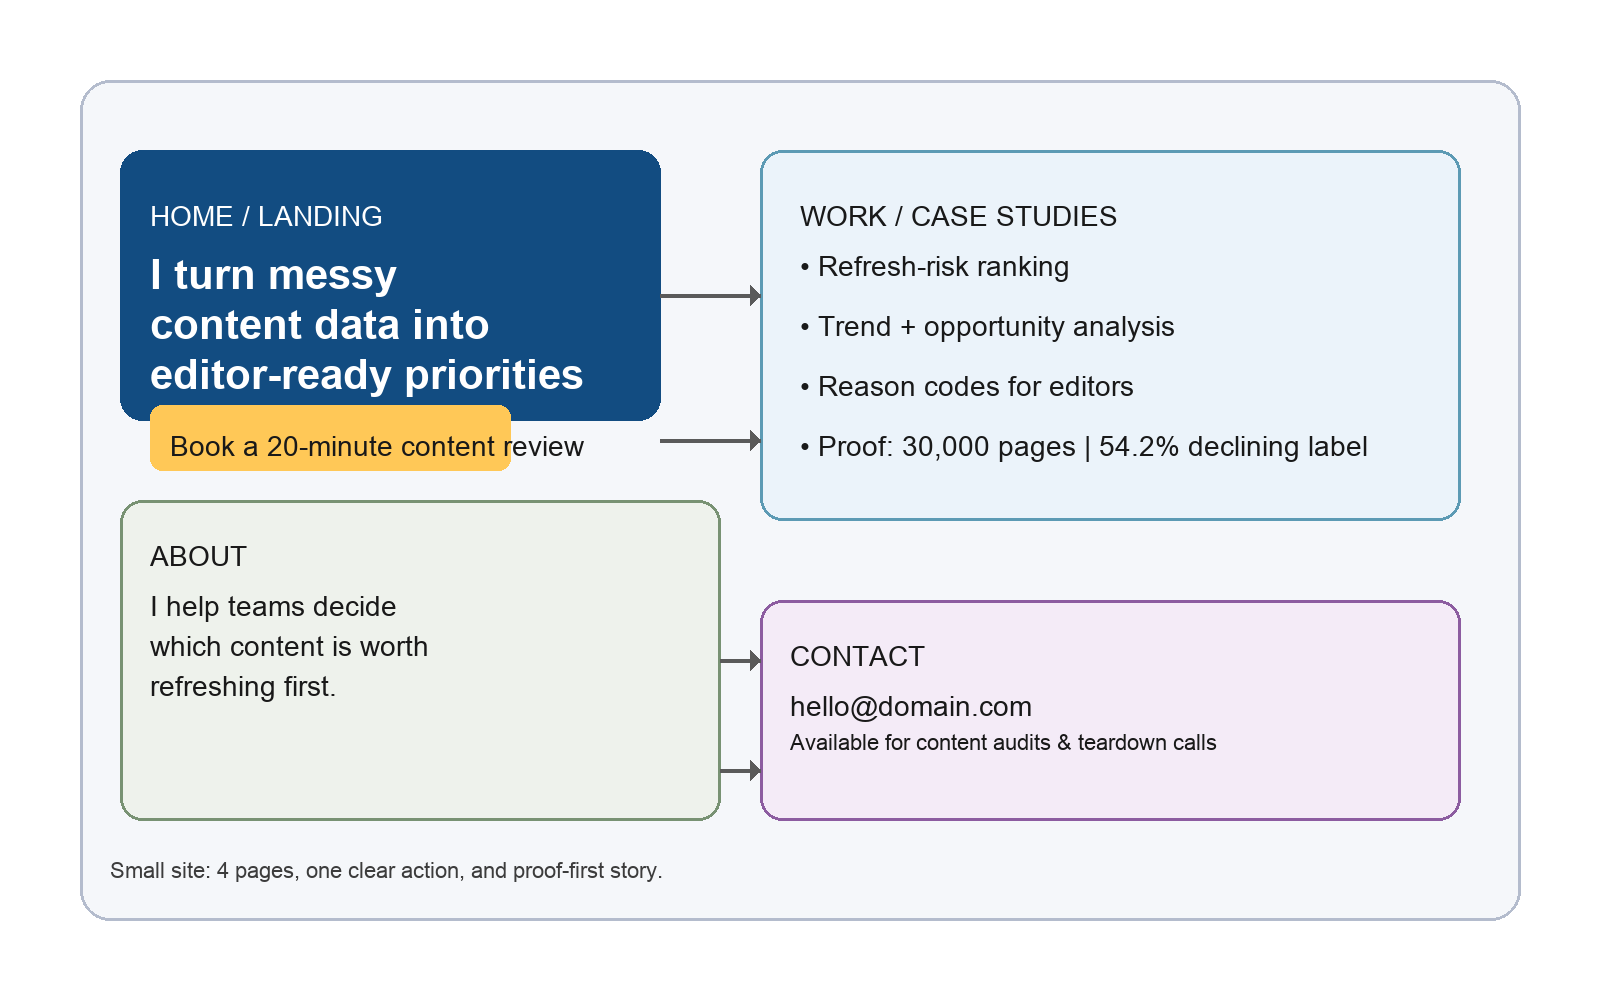
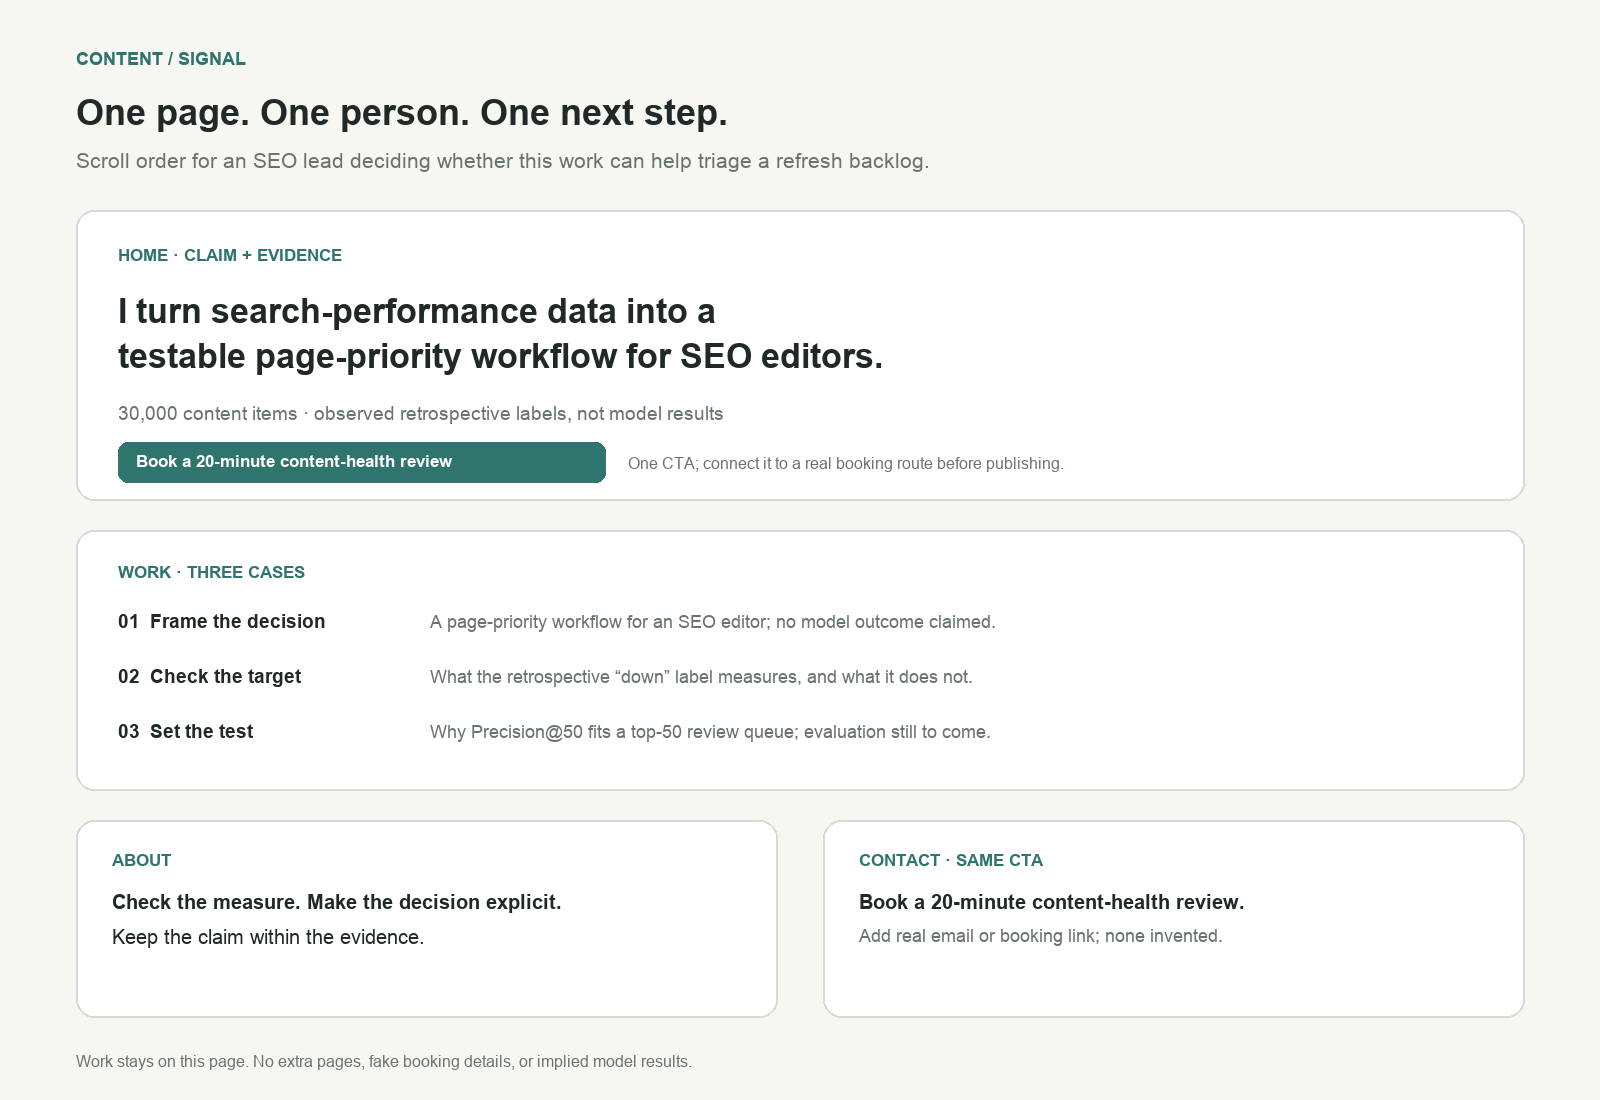
Consistency, Not Talent (and Frame, Not Upstage)

diff --git a/work/portfolio/README.md b/work/portfolio/README.md
@@ -1,12 +1,22 @@
 # Portfolio toolkit package
 
-This folder contains the local mock deliverables for the one-person portfolio task.
+This folder contains local portfolio copy, planning, and visual assets.
 
 Files:
 - sitemap_sketch.png
 - claude_project_mockup.png
 - pressure_test_mockup.png
 - case_studies.md
+- visual_identity.md
+- assets/identity-board.png
+- assets/image_curation_board.png
+- assets/decline-label-distribution.png
+- assets/decision-path.svg
+- assets/option_a_signal_to_queue.svg
+- assets/option_b_magnifier.svg
+- assets/option_c_page_cards.svg
+- assets/logo.svg
+- assets/favicon.svg
 - prompt_ladder.md
 - prompt_iteration_log.md
 - toolkit_checklist.md
@@ -19,5 +29,6 @@ How to use:
 2. Copy the Claude custom instructions, including the voice card, into a real Claude project in the browser.
 3. Use the pressure-test prompt to improve the structure before publishing.
 4. Read the case-study draft out loud and edit it into your own words before publishing.
+5. Use the visual identity and image curation in `visual_identity.md` as the portfolio's restrained visual system. Keep the chart's retrospective-label caveat with it.
 
 Note: actual browser account creation and screenshot capture require live access to Claude, ChatGPT, Gemini, and Perplexity in your browser.
